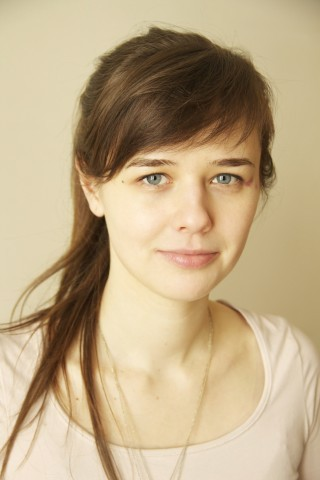
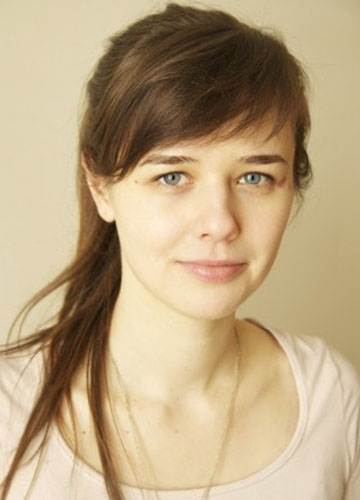
Update photos

diff --git a/src/components/translations.js b/src/components/translations.js
@@ -160,7 +160,7 @@ const translations = {
           "name": "Ulyana Yasinovska",
           "job": "Customer Success Specialist",
           "info": "Po latach w marketingu wylądowałam w biznes developmencie. Teraz płacą mi za to, że gadam z ludźmi i pomagam realizować ich projekty.",
-          "image": "../../assets/ulyana-yasinovska.png",
+          "image": "../../assets/ulyana-yasinovska.jpg",
           "alt": "Ulyana Yasinovska photo"
         },
         {
@@ -195,7 +195,7 @@ const translations = {
           "name": "Agnieszka Sobańska",
           "job": "Pomysłodawczyni, UX Designer",
           "info": "Poluję na ludzi, a potem dbam o to, żeby dobrze się im było w jednym w warszwskich software housów.",
-          "image": "../../assets/agnieszka-sobanska.png",
+          "image": "../../assets/agnieszka-sobanska.jpg",
           "alt": "Agnieszka Sobańska photo"
         },
         {
